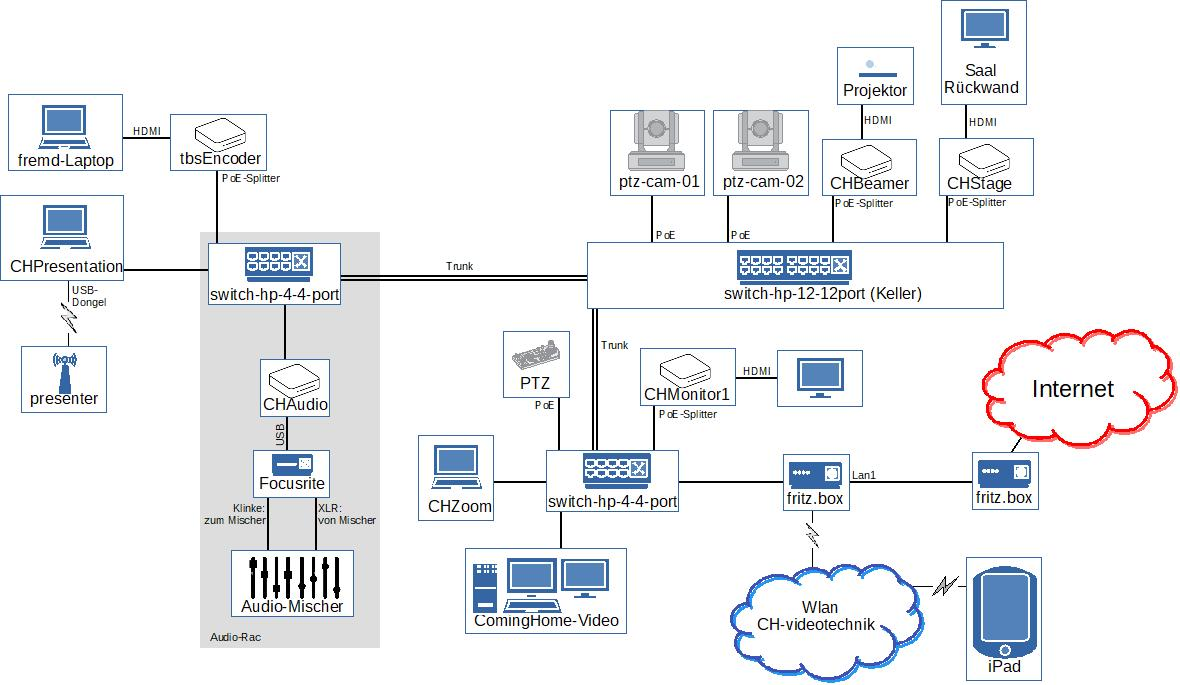
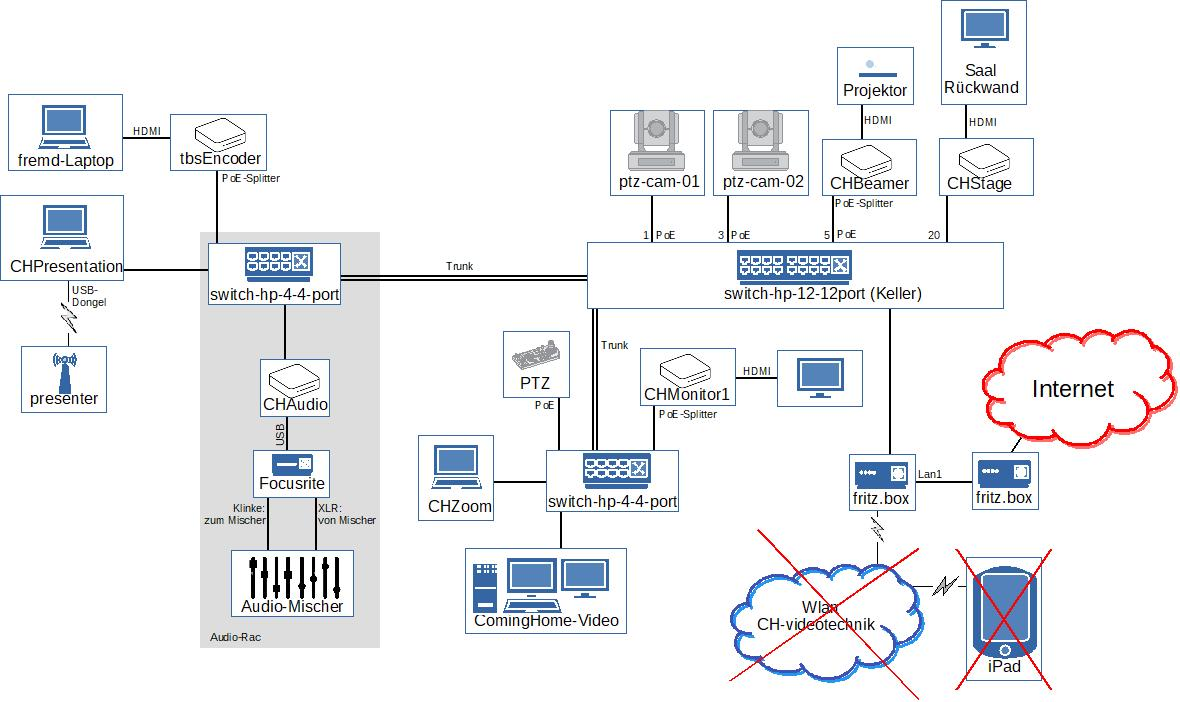
Doku Fritzbox Umzug in Keller

diff --git a/help/patchVerkabelung.md b/help/patchVerkabelung.md
@@ -3,7 +3,7 @@
 | CHBeamer | (defekt) 32 | 5 |
 | switch-4-4-audiorac Trunk 1 Port 7 | (8A/GEBL) 11 | 23 |
 | switch-4-4-audiorac Trunk 1 Port 8 | (8A/GEBL) 12 | 24 |
-| FritzBox Lan1 | 19 | (Internet) |
+| FritzBox Lan1 | (optional 19) | (Internet) |
 | Cam01 | 27 | 1 |
 | Cam02 | 25 | 3 |
 | CHStage | 38 | 20 |
